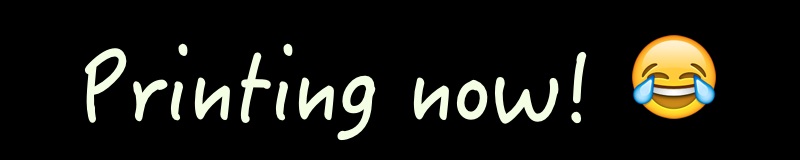
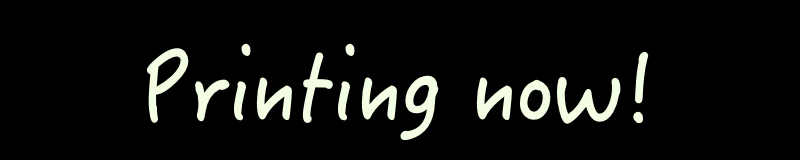
Show confirmation message before printing (not yet wired up)

Changed region(s): [[0.0938, 0.2188, 0.9062, 0.875]]

diff --git a/photobooth.py b/photobooth.py
@@ -54,8 +54,6 @@ def take_dslr_photo():
         log.exception("Something went horribly wrong whilst trying to take a photo.")
         show_overlay("intro")
         return
-    if PRINT_PHOTOS:
-        add_to_print_queue(photo_path)
     show_photo(photo_path)
 
 def add_to_print_queue(path):
@@ -121,14 +119,23 @@ def show_photo(path):
     remove_overlays()
     overlay = pi_camera.add_overlay(image.tobytes(), size=image.size, layer=3)
     if PRINT_PHOTOS:
-        show_overlay("printing", remove_others=False)
-    # wait for a few seconds or until the screen is tapped
-    time.sleep(5)
+        show_overlay("print_confirm", remove_others=False)
+        if wait_for_print_confirmation():
+            remove_overlays(max_length=1, reverse=True)
+            show_overlay("printing", remove_others=False)
+            add_to_print_queue(path)
+            time.sleep(5)
+    else:
+        time.sleep(5)
     show_overlay("intro")
 
-def remove_overlays(max_length=0):
+def wait_for_print_confirmation():
+    time.sleep(10)
+    return True
+
+def remove_overlays(max_length=0, reverse=False):
     while len(pi_camera.overlays) > max_length:
-        pi_camera.remove_overlay(pi_camera.overlays[0])
+        pi_camera.remove_overlay(pi_camera.overlays[-1 if reverse else 0])
 
 def teardown_picamera():
     pi_camera.stop_preview()
